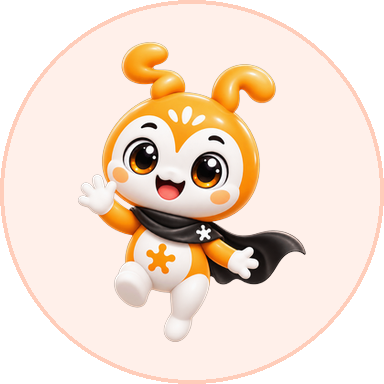
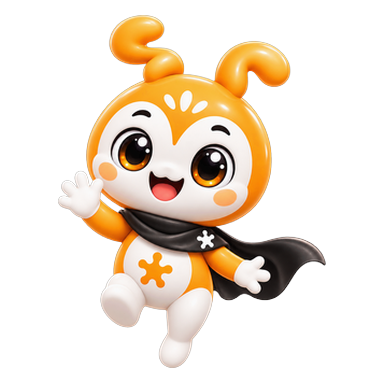
Linh vật bỏ nền (web + app); app bỏ footer trang chủ
- Web: .notification-mascot không đĩa tròn; FAB không halo trắng.
- App: avatar CamiO ở Thông báo/Hỗ trợ không nền; ảnh lớn push Android nền trong suốt.
- App: bỏ AppFooter khỏi Trang chủ.

Claude-Session: https://claude.ai/code/session_01EtfdoEujtdzmhhmzZRyYVU

diff --git a/mobile/src/app/support.tsx b/mobile/src/app/support.tsx
@@ -597,14 +597,7 @@ const styles = StyleSheet.create({
   msgRow: { flexDirection: 'row', alignItems: 'flex-end', gap: 8 },
   msgLeft: { justifyContent: 'flex-start' },
   msgRight: { justifyContent: 'flex-end' },
-  agent: {
-    width: 34,
-    height: 34,
-    borderRadius: 17,
-    backgroundColor: colors.brandSoft,
-    alignItems: 'center',
-    justifyContent: 'center',
-  },
+  agent: { width: 34, height: 34, alignItems: 'center', justifyContent: 'center' },
   bubble: { maxWidth: '82%', paddingHorizontal: 12, paddingVertical: 9, borderRadius: radius.md },
   bubbleAgent: {
     backgroundColor: colors.paper,

diff --git a/mobile/src/app/(tabs)/index.tsx b/mobile/src/app/(tabs)/index.tsx
@@ -24,7 +24,6 @@ import { BrandHeader } from '@/components/BrandHeader';
 import { HomeHero } from '@/components/HomeHero';
 import { Mascot, type CamioMood } from '@/components/Mascot';
 import {
-  AppFooter,
   BankAlert,
   CheckinEntry,
   PlatformShowcase,
@@ -225,7 +224,6 @@ export default function HomeScreen() {
         <ProductStrip tieuDe="Bán chạy" list="best" />
         <ProductStrip tieuDe="Ưu đãi độc quyền" list="exclusive" />
 
-        <AppFooter />
       </ScrollView>
     </View>
   );

diff --git a/mobile/src/app/notifications.tsx b/mobile/src/app/notifications.tsx
@@ -126,14 +126,7 @@ const styles = StyleSheet.create({
     borderColor: colors.line,
   },
   itemUnread: { backgroundColor: colors.brandSoft, borderColor: colors.brandLine },
-  avatar: {
-    width: 40,
-    height: 40,
-    borderRadius: 20,
-    backgroundColor: colors.brandSoft,
-    alignItems: 'center',
-    justifyContent: 'center',
-  },
+  avatar: { width: 40, height: 40, alignItems: 'center', justifyContent: 'center' },
   avatarImg: { width: 32, height: 34 },
   dot: {
     position: 'absolute',

diff --git a/public/luxury-ui.css b/public/luxury-ui.css
@@ -1004,9 +1004,6 @@ label small {
   flex: 0 0 auto;
   width: 40px;
   height: 40px;
-  padding: 3px;
-  border-radius: 50%;
-  background: var(--lx-orange-soft);
   object-fit: contain
 }
 
@@ -5329,7 +5326,6 @@ label small {
   justify-content: center;
   width: 36px;
   line-height: 0;
-  background: radial-gradient(circle at 50% 44%, rgba(255, 255, 255, .92) 52%, rgba(255, 255, 255, 0) 72%);
 }
 
 .st-support-fab .st-fab-mascot .blob-mascot {

diff --git a/mobile/scripts/make-brand-assets.py b/mobile/scripts/make-brand-assets.py
@@ -17,14 +17,12 @@ import struct
 import wave
 from pathlib import Path
 
-from PIL import Image, ImageDraw
+from PIL import Image
 
 ROOT = Path(__file__).resolve().parent.parent / "assets" / "images"
 SOUNDS = Path(__file__).resolve().parent.parent / "assets" / "sounds"
 LOGO = ROOT / "brand-logo.png"
 MASCOT = ROOT / "mascot" / "camio-vuive.png"
-BRAND_SOFT = (255, 240, 234, 255)  # nền nhạt tông cam thương hiệu
-BRAND_LINE = (255, 205, 186, 255)
 
 
 def logo_trimmed() -> Image.Image:
@@ -60,15 +58,10 @@ def silhouette(src: Image.Image) -> Image.Image:
 
 
 def mascot_badge(size: int) -> Image.Image:
-    """Linh vật trên đĩa tròn màu nền thương hiệu — ảnh lớn của thông báo."""
-    out = Image.new("RGBA", (size, size), (0, 0, 0, 0))
-    d = ImageDraw.Draw(out)
-    d.ellipse((0, 0, size - 1, size - 1), fill=BRAND_SOFT, outline=BRAND_LINE, width=max(2, size // 96))
+    """Linh vật CamiO nền trong suốt (không đĩa tròn) — ảnh lớn của thông báo."""
     m = Image.open(MASCOT).convert("RGBA")
     m = m.crop(m.getbbox())
-    badge = fit_center(m, size, round(size * 0.78))
-    out.alpha_composite(badge)
-    return out
+    return fit_center(m, size, round(size * 0.92))
 
 
 def chime(path: Path, rate: int = 44100) -> None:
